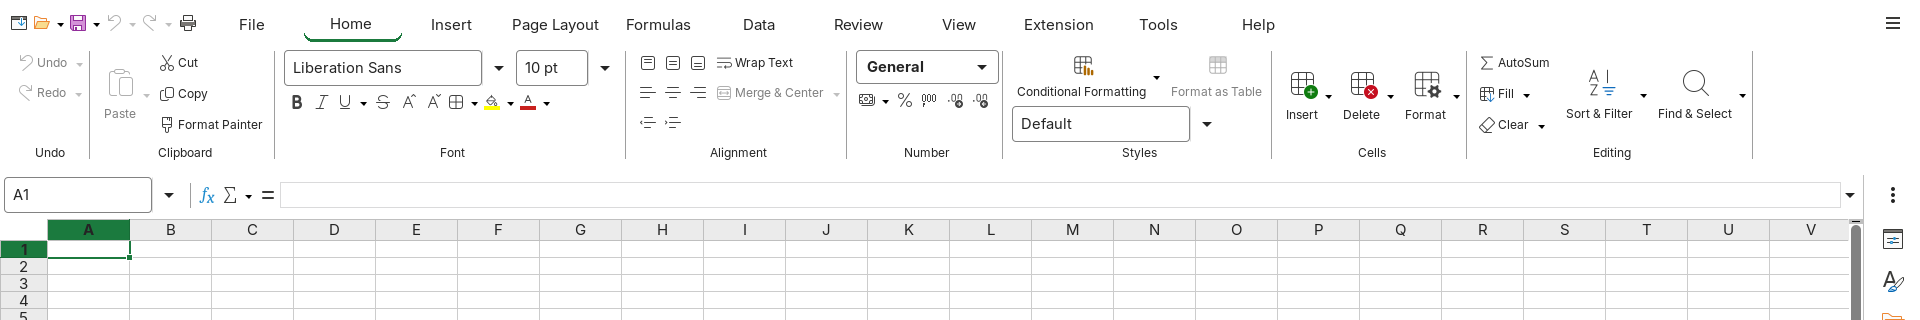
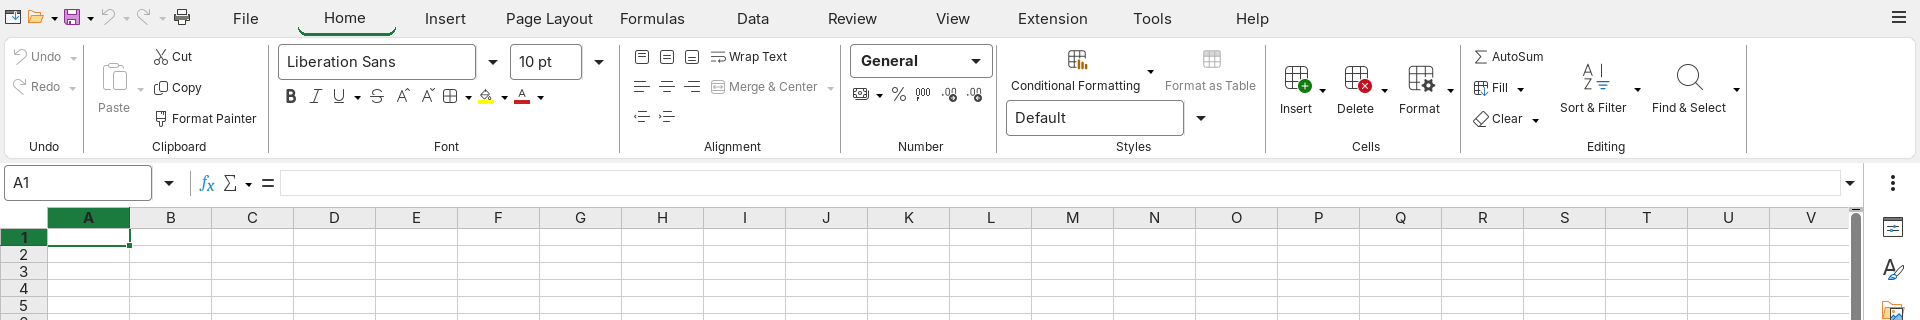
docs: show the rounded ribbon in the README
Writer, Calc and Impress Home, light, 1920 px, top 320 px, retaken with shot-tab.sh on the C1 build.

diff --git a/product/docs/screenshots/README.md b/product/docs/screenshots/README.md
@@ -3,7 +3,8 @@
 ## The three apps (used by the root README)
 
 Home tab, light theme, 1920 px wide, cropped to the top band: quick access bar, tabs, ribbon and a little of the
-document. Taken on 2026-10-25 with `product/dev/shot-tab.sh --app <app> light Home`. The UI font is Inter.
+document. The ribbon is a rounded card on the light gray window color, as Microsoft 365 draws it. Retaken on
+2026-10-26 with `product/dev/shot-tab.sh --app <app> light Home`. The UI font is Inter.
 
 ![Calc, Home tab](calc-home-light.png)
 
